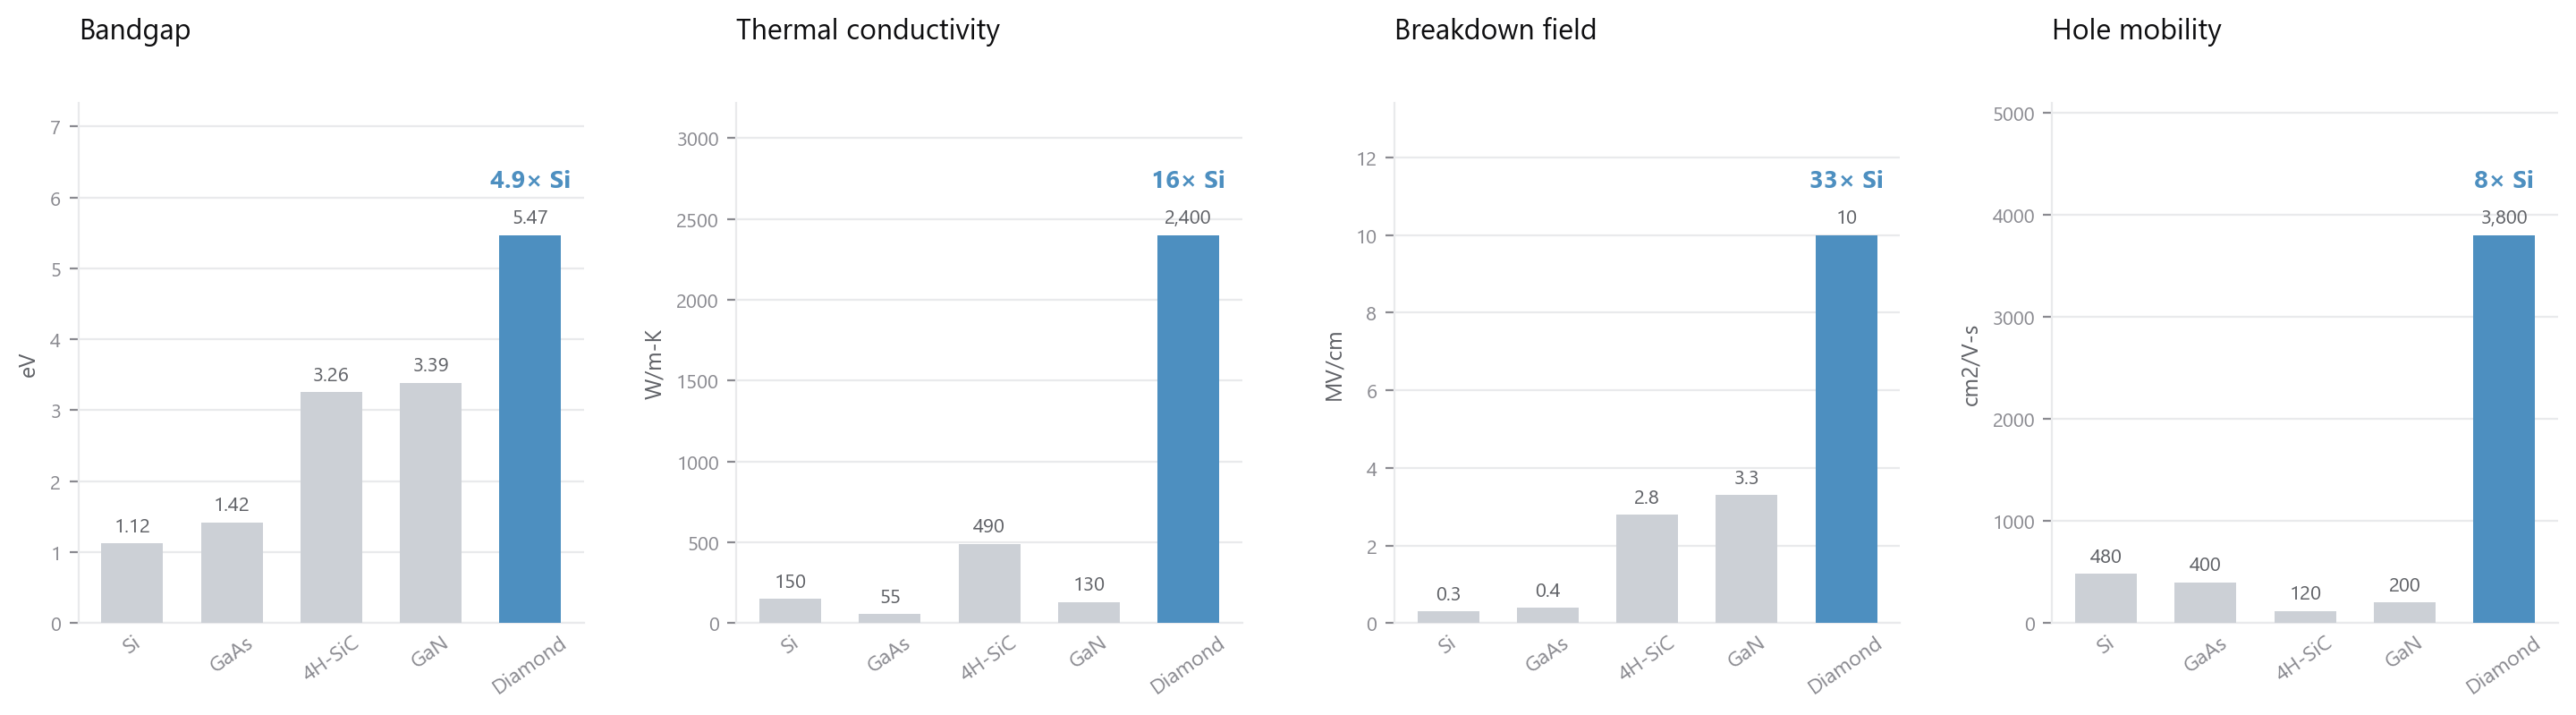
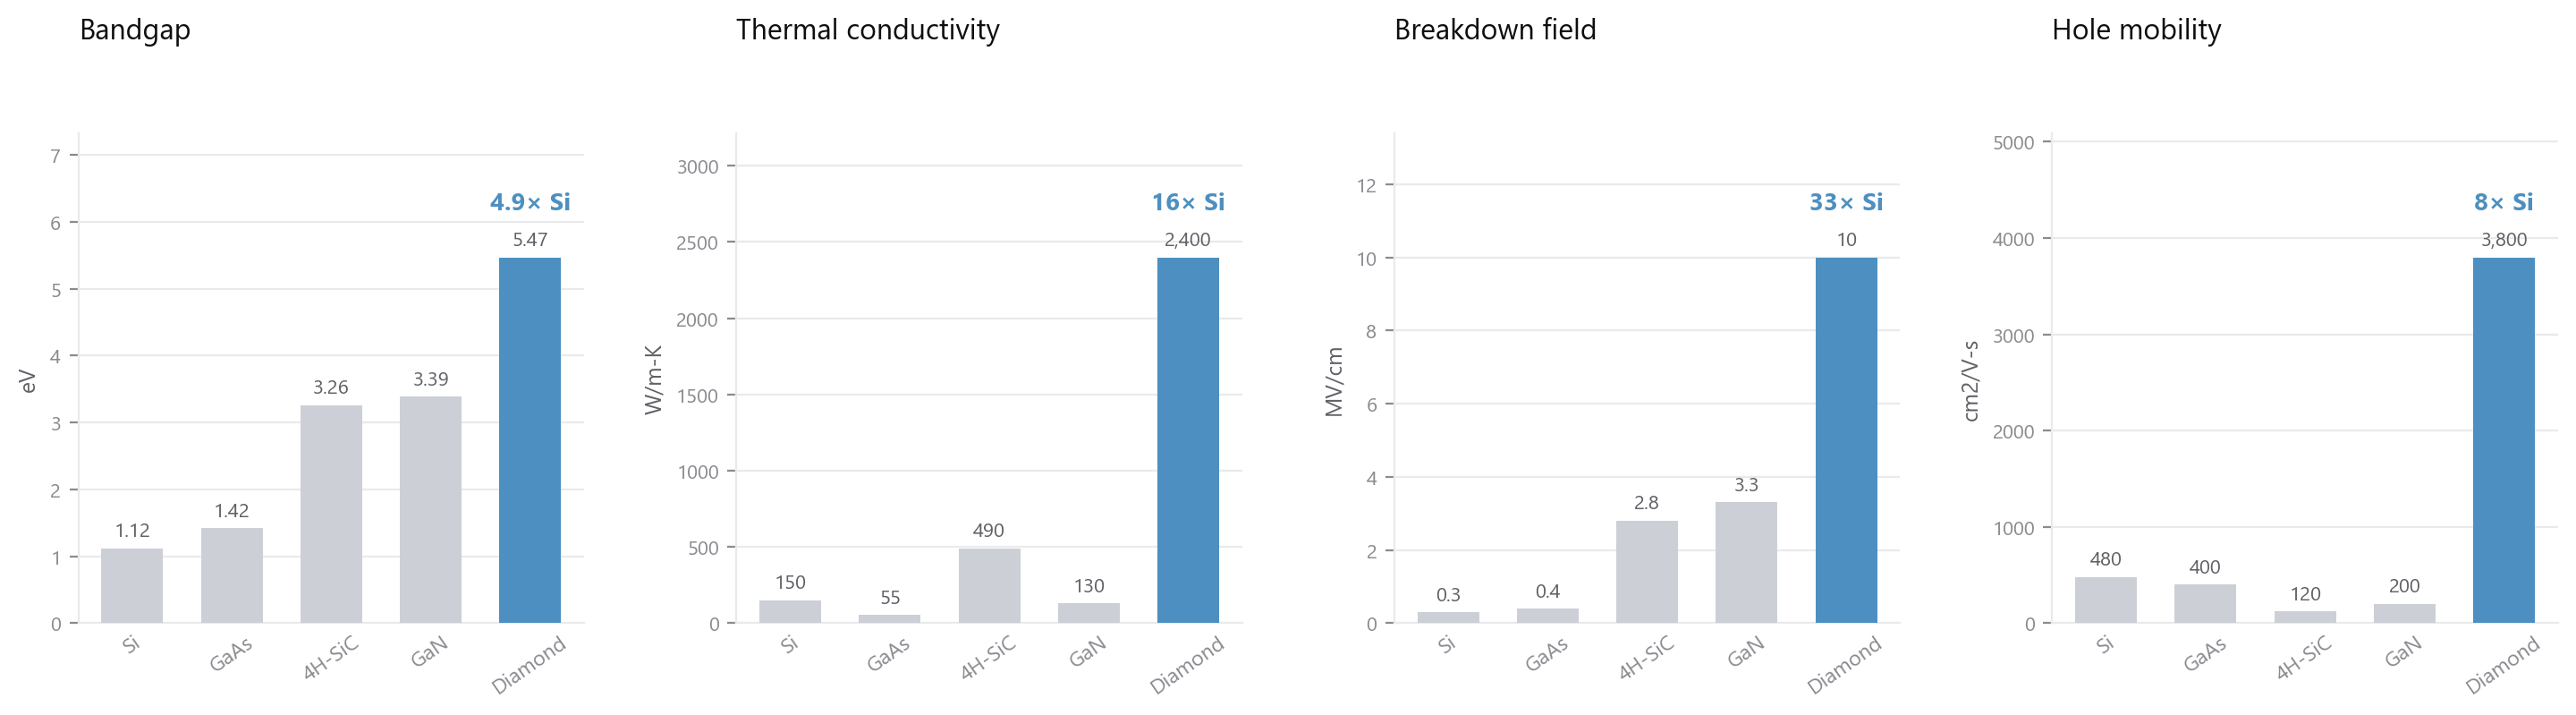
Revert text to gray (charts stay blue); chart title clearance; works-cited page rebuilt with full referenced bibliography

diff --git a/sources.html b/sources.html
@@ -3,20 +3,19 @@
 <head>
 <meta charset="UTF-8" />
 <meta name="viewport" content="width=device-width, initial-scale=1.0" />
-<title>Sources — KARA</title>
+<title>Works Cited — KARA</title>
 <link rel="icon" type="image/png" href="assets/logo.png" />
 <link rel="preconnect" href="https://fonts.googleapis.com" />
 <link rel="preconnect" href="https://fonts.gstatic.com" crossorigin />
-<link href="https://fonts.googleapis.com/css2?family=Inter:wght@400;500;600&family=Inter+Tight:wght@400;500;600&family=Geist+Mono:wght@400;500&display=swap" rel="stylesheet" />
+<link href="https://fonts.googleapis.com/css2?family=Inter:wght@400;500;600&family=Inter+Tight:wght@400;500;600&display=swap" rel="stylesheet" />
 <style>
   :root {
     --white:#ffffff; --paper:#f5f5f6; --line:#e9eaec;
     --ink:#0e0e10; --graphite:#5f6166; --muted:#8a8a90; --faint:#c2c2c8;
-    --steel:#6f8fa6;
+    --steel:#5d9bc7;
     --pad:clamp(24px,5.5vw,100px);
     --sans:'Inter', system-ui, sans-serif;
     --display:'Inter Tight','Inter',system-ui,sans-serif;
-    --mono:'Geist Mono', ui-monospace, monospace;
   }
   * { margin:0; padding:0; box-sizing:border-box; }
   body { font-family:var(--sans); background:var(--white); color:var(--ink); -webkit-font-smoothing:antialiased; }
@@ -31,36 +30,38 @@
   nav .back { font-size:13px; color:var(--graphite); text-decoration:none; }
   nav .back:hover { color:var(--ink); }
 
-  main { max-width:920px; margin:0 auto; padding:clamp(64px,10vh,120px) var(--pad) 80px; }
-  .label { font-family:var(--mono); font-size:12px; color:var(--muted); letter-spacing:0.02em; }
-  h1 { font-family:var(--display); font-size:clamp(36px,6vw,72px); font-weight:500; letter-spacing:-0.03em; margin-top:16px; }
-  .intro { margin-top:22px; font-size:15px; color:var(--graphite); line-height:1.65; max-width:64ch; }
+  main { max-width:900px; margin:0 auto; padding:clamp(72px,11vh,130px) var(--pad) 90px; }
+  h1 { font-family:var(--display); font-size:clamp(42px,7vw,88px); font-weight:500; letter-spacing:-0.03em; line-height:0.98; }
+  .intro { margin-top:26px; font-size:16px; color:var(--graphite); line-height:1.65; max-width:62ch; }
   .intro b { color:var(--ink); font-weight:500; }
 
-  section { margin-top:clamp(48px,7vh,72px); }
-  h2 { font-family:var(--display); font-size:20px; font-weight:500; letter-spacing:-0.015em; padding-bottom:14px; border-bottom:1px solid var(--ink); }
-  ol { list-style:none; counter-reset:src; }
-  li {
-    counter-increment:src; position:relative;
-    padding:18px 0 18px 58px; border-bottom:1px solid var(--line);
-    font-size:14.5px; color:var(--graphite); line-height:1.6;
+  section { margin-top:clamp(56px,8vh,88px); }
+  h2 { font-family:var(--display); font-size:clamp(22px,2.6vw,30px); font-weight:500; letter-spacing:-0.02em; padding-bottom:16px; border-bottom:1px solid var(--ink); }
+  .ref {
+    padding:24px 0; border-bottom:1px solid var(--line);
+    font-size:15px; color:var(--graphite); line-height:1.65;
   }
-  li::before {
-    content:counter(src, decimal-leading-zero);
-    position:absolute; left:0; top:20px;
-    font-family:var(--mono); font-size:12px; color:var(--faint);
+  .ref b { color:var(--ink); font-weight:600; }
+  .ref em { font-style:italic; }
+  .ref a { color:var(--steel); text-decoration:none; word-break:break-all; }
+  .ref a:hover { color:var(--ink); }
+  .ref .finding { display:block; margin-top:8px; color:var(--graphite); }
+  .ref .finding b { font-weight:500; }
+  .tag {
+    display:inline-block; margin-left:10px; padding:2.5px 10px;
+    font-size:11px; font-weight:500; border-radius:20px; vertical-align:2px;
   }
-  li b { color:var(--ink); font-weight:500; }
-  li .j { font-family:var(--mono); font-size:12px; color:var(--muted); display:block; margin-top:5px; }
+  .tag.v { background:#e9f3ea; color:#3d7a46; }
+  .tag.c { background:var(--paper); color:var(--graphite); border:1px solid var(--line); }
 
   .note {
-    margin-top:clamp(48px,7vh,72px); padding:26px 30px;
-    background:var(--paper); border:1px solid var(--line);
-    font-family:var(--mono); font-size:12px; color:var(--graphite); line-height:1.8;
+    margin-top:clamp(56px,8vh,88px); padding:30px 34px;
+    background:var(--paper); border-left:3px solid var(--ink);
+    font-size:15px; color:var(--graphite); line-height:1.7;
   }
-  .note b { color:var(--ink); font-weight:500; }
+  .note b { color:var(--ink); font-weight:600; }
 
-  footer { border-top:1px solid var(--line); padding:26px var(--pad); display:flex; justify-content:space-between; flex-wrap:wrap; gap:12px; font-family:var(--mono); font-size:11px; color:var(--muted); }
+  footer { border-top:1px solid var(--line); padding:26px var(--pad); display:flex; justify-content:space-between; flex-wrap:wrap; gap:12px; font-size:12.5px; color:var(--muted); }
   footer a { color:var(--steel); text-decoration:none; }
 </style>
 </head>
@@ -78,51 +79,40 @@
 </nav>
 
 <main>
-  <span class="label">References</span>
-  <h1>Sources.</h1>
-  <p class="intro">Every material property, comparison and demonstrated result on this site traces to the peer-reviewed literature below. <b>Diamond devices today are currently limited by doping and wafer-scale manufacturing, not by these intrinsic material limits.</b> That is the problem Kara exists to solve.</p>
+  <h1>Works cited.</h1>
+  <p class="intro">Every number in the charts and data tables traces to one of these references. <b>Verified</b> means the DOI was confirmed against the publisher record; <b>canonical</b> means the standard, widely cited reference for that property.</p>
 
   <section>
-    <h2>Material properties</h2>
-    <ol>
-      <li><b>C. J. H. Wort &amp; R. S. Balmer</b>, "Diamond as an electronic material."<span class="j">Materials Today 11 (1–2), 22–28 (2008) — bandgap, breakdown field, thermal conductivity, saturation velocity, figures of merit</span></li>
-      <li><b>J. Isberg et al.</b>, "High carrier mobility in single-crystal plasma-deposited diamond."<span class="j">Science 297, 1670–1672 (2002) — electron and hole mobility in single-crystal CVD diamond</span></li>
-      <li><b>T. R. Anthony et al.</b>, "Thermal diffusivity of isotopically enriched ¹²C diamond."<span class="j">Physical Review B 42, 1104 (1990) — enhanced thermal conductivity of isotopically purified diamond</span></li>
-    </ol>
+    <h2>Electronic and material properties</h2>
+    <div class="ref"><b>Isberg, J., Hammersberg, J., Johansson, E., Wikström, T., Twitchen, D. J., Whitehead, A. J., Coe, S. E., &amp; Scarsbrook, G. A.</b> (2002). High Carrier Mobility in Single-Crystal Plasma-Deposited Diamond. <em>Science, 297</em>(5587), 1670–1672. <a href="https://doi.org/10.1126/science.1074374" target="_blank" rel="noopener">doi.org/10.1126/science.1074374</a><span class="tag v">verified</span><span class="finding">Electron mobility 4,500 cm²/V·s, hole mobility 3,800 cm²/V·s.</span></div>
+    <div class="ref"><b>Wei, L., Kuo, P. K., Thomas, R. L., Anthony, T. R., &amp; Banholzer, W. F.</b> (1993). Thermal conductivity of isotopically modified single crystal diamond. <em>Physical Review Letters, 70</em>(24), 3764–3767. <a href="https://doi.org/10.1103/PhysRevLett.70.3764" target="_blank" rel="noopener">doi.org/10.1103/PhysRevLett.70.3764</a><span class="tag v">verified</span><span class="finding">Record thermal conductivity in isotopically pure ¹²C diamond.</span></div>
+    <div class="ref"><b>Olson, J. R., Pohl, R. O., Vandersande, J. W., Zoltan, A., Anthony, T. R., &amp; Banholzer, W. F.</b> (1993). Thermal conductivity of diamond between 170 and 1200 K and the isotope effect. <em>Physical Review B, 47</em>(22), 14850–14856. <a href="https://doi.org/10.1103/PhysRevB.47.14850" target="_blank" rel="noopener">doi.org/10.1103/PhysRevB.47.14850</a><span class="tag c">canonical</span><span class="finding">Room-temperature thermal conductivity, about 2,200 W/m·K, type IIa.</span></div>
+    <div class="ref"><b>Wort, C. J. H., &amp; Balmer, R. S.</b> (2008). Diamond as an electronic material. <em>Materials Today, 11</em>(1–2), 22–28. <a href="https://doi.org/10.1016/S1369-7021(07)70349-8" target="_blank" rel="noopener">doi.org/10.1016/S1369-7021(07)70349-8</a><span class="tag c">canonical</span><span class="finding">Bandgap 5.47 eV, breakdown field, dielectric constant, general device review.</span></div>
+    <div class="ref"><b>Tsao, J. Y., et al.</b> (2018). Ultrawide-Bandgap Semiconductors: Research Opportunities and Challenges. <em>Advanced Electronic Materials, 4</em>(1), 1600501. <a href="https://doi.org/10.1002/aelm.201600501" target="_blank" rel="noopener">doi.org/10.1002/aelm.201600501</a><span class="tag c">canonical</span><span class="finding">Cross-material property comparison: SiC, GaN, Ga₂O₃, diamond.</span></div>
+    <div class="ref"><b>Field, J. E.</b> (Ed.) (1992). <em>The Properties of Natural and Synthetic Diamond.</em> Academic Press.<span class="tag c">canonical · book</span><span class="finding">Hardness about 100 GPa, Young's modulus about 1,140 GPa, Debye temperature, sound velocity.</span></div>
   </section>
 
   <section>
-    <h2>Quantum</h2>
-    <ol>
-      <li><b>M. H. Abobeih et al.</b>, "One-second coherence for a single electron spin coupled to a multi-qubit nuclear-spin environment."<span class="j">Nature Communications 9, 2552 (2018) — T₂ = 1.58 s NV coherence in ¹²C diamond</span></li>
-      <li><b>B. Hensen et al.</b>, "Loophole-free Bell inequality violation using electron spins separated by 1.3 kilometres."<span class="j">Nature 526, 682–686 (2015) — entanglement between NV centers across 1.3 km</span></li>
-      <li><b>M. Pompili et al.</b>, "Realization of a multinode quantum network of remote solid-state qubits."<span class="j">Science 372, 259–264 (2021) — three-node diamond quantum network</span></li>
-      <li><b>T. Wolf et al.</b>, "Subpicotesla diamond magnetometry."<span class="j">Physical Review X 5, 041001 (2015) — 0.9 pT/√Hz NV magnetometer sensitivity</span></li>
-      <li><b>A. Sipahigil et al.</b>, "An integrated diamond nanophotonics platform for quantum-optical networks."<span class="j">Science 354, 847–850 (2016) — color centers coupled to on-chip diamond cavities</span></li>
-    </ol>
+    <h2>Power-electronics figures of merit</h2>
+    <div class="ref"><b>Johnson, E. O.</b> (1965). Physical limitations on frequency and power parameters of transistors. <em>RCA Review, 26</em>, 163–177.<span class="tag c">canonical · no DOI</span><span class="finding">Johnson figure of merit (JFOM).</span></div>
+    <div class="ref"><b>Baliga, B. J.</b> (1982). Semiconductors for high-voltage, vertical-channel field-effect transistors. <em>Journal of Applied Physics, 53</em>(3), 1759–1764. <a href="https://doi.org/10.1063/1.331646" target="_blank" rel="noopener">doi.org/10.1063/1.331646</a><span class="tag c">canonical</span><span class="finding">Baliga figure of merit (BFOM).</span></div>
+    <div class="ref"><b>Keyes, R. W.</b> (1972). Figure of merit for semiconductors for high-speed switches. <em>Proceedings of the IEEE, 60</em>(2), 225–226. <a href="https://doi.org/10.1109/PROC.1972.8593" target="_blank" rel="noopener">doi.org/10.1109/PROC.1972.8593</a><span class="tag c">canonical</span><span class="finding">Keyes figure of merit (KFOM).</span></div>
+    <div class="ref"><b>Baliga, B. J.</b> (1989). Power semiconductor device figure of merit for high-frequency applications. <em>IEEE Electron Device Letters, 10</em>(10), 455–457. <a href="https://doi.org/10.1109/55.43098" target="_blank" rel="noopener">doi.org/10.1109/55.43098</a><span class="tag c">canonical</span><span class="finding">Baliga high-frequency figure of merit (BHFFM).</span></div>
   </section>
 
   <section>
-    <h2>Thermal &amp; power</h2>
-    <ol>
-      <li><b>J. W. Pomeroy et al.</b>, "Low thermal resistance GaN-on-diamond transistors characterized by three-dimensional Raman thermography mapping."<span class="j">Applied Physics Letters 104, 083513 (2014) — GaN-on-diamond thermal performance</span></li>
-      <li><b>H. Umezawa</b>, "Recent advances in diamond power semiconductor devices."<span class="j">Materials Science in Semiconductor Processing 78, 147–156 (2018) — diamond Schottky diodes, high-voltage blocking</span></li>
-      <li><b>J. Achard et al.</b>, "High quality MPACVD diamond single crystal growth."<span class="j">Journal of Physics D: Applied Physics 40, 6175 (2007) — single-crystal CVD growth</span></li>
-    </ol>
+    <h2>NV-center quantum applications</h2>
+    <div class="ref"><b>Balasubramanian, G., et al.</b> (2009). Ultralong spin coherence time in isotopically engineered diamond. <em>Nature Materials, 8</em>(5), 383–387. <a href="https://doi.org/10.1038/nmat2420" target="_blank" rel="noopener">doi.org/10.1038/nmat2420</a><span class="tag v">verified</span><span class="finding">Spin coherence up to 1.8 ms; magnetic sensitivity about 4 nT·Hz⁻¹ᐟ²; sub-nm resolution.</span></div>
+    <div class="ref"><b>Doherty, M. W., Manson, N. B., Delaney, P., Jelezko, F., Wrachtrup, J., &amp; Hollenberg, L. C. L.</b> (2013). The nitrogen-vacancy colour centre in diamond. <em>Physics Reports, 528</em>(1), 1–45. <a href="https://doi.org/10.1016/j.physrep.2013.02.001" target="_blank" rel="noopener">doi.org/10.1016/j.physrep.2013.02.001</a><span class="tag c">canonical</span><span class="finding">NV structure, 637 nm zero-phonon line, room-temperature single-spin readout.</span></div>
+    <div class="ref"><b>Degen, C. L., Reinhard, F., &amp; Cappellaro, P.</b> (2017). Quantum sensing. <em>Reviews of Modern Physics, 89</em>(3), 035002. <a href="https://doi.org/10.1103/RevModPhys.89.035002" target="_blank" rel="noopener">doi.org/10.1103/RevModPhys.89.035002</a><span class="tag c">canonical</span><span class="finding">Quantum-sensing sensitivity limits and magnetometry theory.</span></div>
+    <div class="ref"><b>Maze, J. R., et al.</b> (2008). Nanoscale magnetic sensing with an individual electronic spin in diamond. <em>Nature, 455</em>(7213), 644–647. <a href="https://doi.org/10.1038/nature07279" target="_blank" rel="noopener">doi.org/10.1038/nature07279</a><span class="tag c">canonical</span><span class="finding">Nanoscale magnetometry with a single NV spin.</span></div>
   </section>
 
-  <section>
-    <h2>Commercial specifications</h2>
-    <ol>
-      <li><b>Element Six</b> (De Beers Group), single-crystal CVD diamond product datasheets.<span class="j">public commercial specifications for research, optical and electronic grade material</span></li>
-    </ol>
-  </section>
-
-  <div class="note"><b>On the figures.</b> fig. 01 and fig. 02 on the main page are generated from the values in references 01–03 above, normalized at room temperature (300 K). Demonstrated results quoted in application pages are the work of the groups cited here; Kara builds the substrates this field runs on. Full data room available under NDA: <b>[email redacted]</b>.</div>
+  <div class="note"><b>Note.</b> Intrinsic single-crystal, room-temperature values. Real-world diamond device performance is currently limited by doping and wafer-scale manufacturing, not by these intrinsic material limits. Full data room available under NDA: <b>[email redacted]</b>.</div>
 </main>
 
 <footer>
-  <span>◇ KARA · engineered diamond</span>
+  <span>KARA · engineered diamond</span>
   <span><a href="index.html">kara</a> · © 2026 Kara, Inc.</span>
 </footer>
 

diff --git a/index.html b/index.html
@@ -78,16 +78,6 @@
   h1,h2,h3 { font-family:var(--display); font-weight:500; letter-spacing:-0.025em; line-height:1.02; }
   .label { font-family:var(--mono); font-size:12px; letter-spacing:0.02em; color:var(--muted); }
 
-  /* metallic blue: the diamond's voice */
-  .mtl {
-    background:linear-gradient(180deg, #cfe0ee 0%, #7fb3d8 45%, #4d88b4 100%);
-    -webkit-background-clip:text; background-clip:text; color:transparent;
-  }
-  .mtl-d {
-    background:linear-gradient(180deg, #eef5fa 0%, #a9cce7 48%, #6fa6cf 100%);
-    -webkit-background-clip:text; background-clip:text; color:transparent;
-  }
-
   .mask { overflow:hidden; display:block; }
   .mask > span { display:block; transform:translateY(108%); opacity:0; transition:transform 1.15s var(--ease-inout), opacity .8s var(--ease-out); }
   .mask.in > span { transform:translateY(0); opacity:1; }
@@ -166,12 +156,12 @@
   .statement .type {
     display:block; margin-top:16px; min-height:1.2em;
     font-size:1.3em; font-weight:600; letter-spacing:-0.03em;
-    background:linear-gradient(180deg, #cfe0ee 0%, #7fb3d8 45%, #4d88b4 100%);
+    background:linear-gradient(180deg, #e9ebef 0%, #c3c8cf 38%, #8f959e 75%, #b7bcc4 100%);
     -webkit-background-clip:text; background-clip:text; color:transparent;
   }
   .statement .type::after {
     content:""; display:inline-block; width:3px; height:0.82em;
-    background:#5d9bc7; margin-left:8px; vertical-align:-0.06em;
+    background:#aab0b8; margin-left:8px; vertical-align:-0.06em;
     animation:blink 1s steps(1) infinite;
   }
   .statement .type.done::after { animation:none; opacity:0; transition:opacity .6s; }
@@ -201,11 +191,7 @@
   .z-hint.show { opacity:1; }
   .z-title { position:absolute; bottom:clamp(36px,7vh,72px); left:0; width:100%; text-align:center; opacity:0; transform:translateY(16px); transition:opacity .9s var(--ease-out), transform .9s var(--ease-out); z-index:2; pointer-events:none; }
   .z-title.show { opacity:1; transform:none; }
-  .z-title h2 {
-    font-size:clamp(26px,3.6vw,52px); font-weight:500;
-    background:linear-gradient(180deg, #eef5fa 0%, #a9cce7 48%, #6fa6cf 100%);
-    -webkit-background-clip:text; background-clip:text; color:transparent;
-  }
+  .z-title h2 { font-size:clamp(26px,3.6vw,52px); font-weight:500; color:#fff; }
   .z-title .label { display:block; margin-bottom:14px; color:#8a8a90; }
 
   /* ================= DATA ================= */
@@ -225,13 +211,8 @@
   .wow-cell.in { opacity:1; transform:none; }
   .wow-cell:nth-child(2){ transition-delay:.1s; } .wow-cell:nth-child(3){ transition-delay:.2s; } .wow-cell:nth-child(4){ transition-delay:.3s; }
   .wow-cell:hover { background:var(--steel-faint); }
-  .wow-num {
-    font-size:clamp(52px,5.6vw,92px); font-weight:500; letter-spacing:-0.05em; line-height:1; font-variant-numeric:tabular-nums;
-    background:linear-gradient(180deg, #cfe0ee 0%, #7fb3d8 45%, #4d88b4 100%);
-    -webkit-background-clip:text; background-clip:text; color:transparent;
-    width:fit-content;
-  }
-  .wow-num small { font-size:0.42em; font-weight:400; letter-spacing:-0.02em; color:transparent; }
+  .wow-num { font-size:clamp(52px,5.6vw,92px); font-weight:500; letter-spacing:-0.05em; line-height:1; font-variant-numeric:tabular-nums; }
+  .wow-num small { font-size:0.42em; color:var(--muted); font-weight:400; letter-spacing:-0.02em; }
   .wow-what { margin-top:10px; font-size:15px; font-weight:500; letter-spacing:-0.01em; }
   .wow-mini { margin-top:18px; display:flex; flex-direction:column; gap:5px; }
   .wow-mini .row { display:flex; align-items:center; gap:9px; }
@@ -509,7 +490,7 @@
         <div class="hero-inner" data-heroinner>
           <h1>
             <span class="mask in"><span>Diamond is</span></span>
-            <span class="mask in d1"><span class="mtl">the next silicon.</span></span>
+            <span class="mask in d1"><span>the next silicon.</span></span>
           </h1>
           <p class="tagline reveal d2">We power the next decade of <b>thermal, quantum, photonic, RF and sensing technology</b>.</p>
           <p class="tagdomains reveal d2">Grown to specification. At scale.</p>
@@ -656,7 +637,7 @@
 
     <!-- BRIDGE -->
     <section class="bridge">
-      <h2 class="reveal d1">The physics is settled. <span class="mtl">Here is what it unlocks.</span></h2>
+      <h2 class="reveal d1">The physics is settled. <span class="dim">Here is what it unlocks.</span></h2>
     </section>
 
     <!-- APPLICATIONS: HORIZONTAL SHOWCASE -->
@@ -721,7 +702,7 @@
     <footer id="contact">
       <div class="foot-top">
         <div class="foot-lead">
-          <h2 class="reveal">The next silicon is <span class="mtl">already grown.</span></h2>
+          <h2 class="reveal">The next silicon is already grown.</h2>
           <a class="cta reveal d1" href="contact.html">Talk to us</a>
         </div>
         <div class="foot-cols">

diff --git a/make_figs.py b/make_figs.py
@@ -37,7 +37,7 @@ fig, axes = plt.subplots(1, 4, figsize=(14.5, 4.1), dpi=200)
 for ax, (title, unit, vals, mult) in zip(axes, panels):
     colors = [GRAY] * 4 + [STEEL]
     bars = ax.bar(mats, vals, color=colors, width=0.62, zorder=3)
-    ax.set_title(title, fontsize=11.5, color=INK, pad=26, loc="left", fontweight="medium")
+    ax.set_title(title, fontsize=11.5, color=INK, pad=38, loc="left", fontweight="medium")
     ax.set_ylabel(unit, fontsize=9)
     ax.spines["top"].set_visible(False)
     ax.spines["right"].set_visible(False)